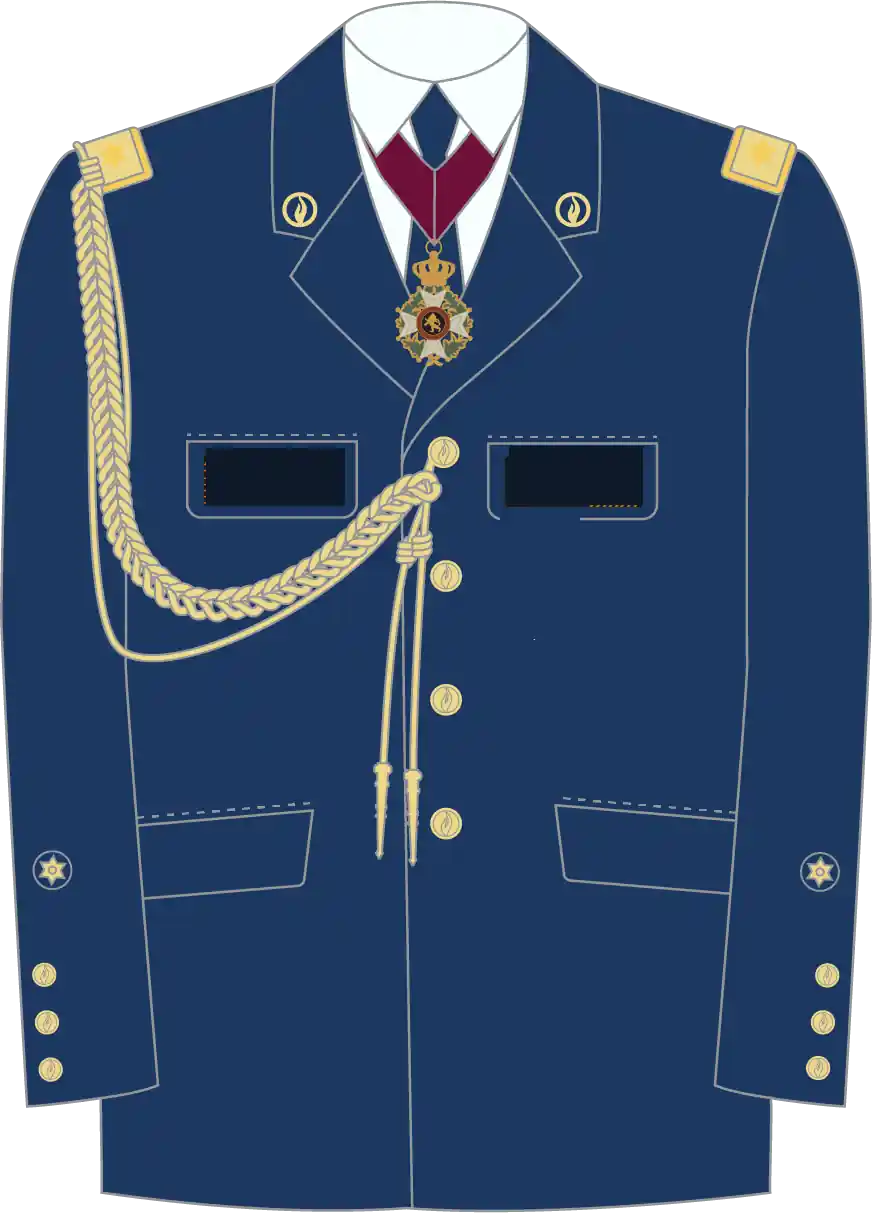
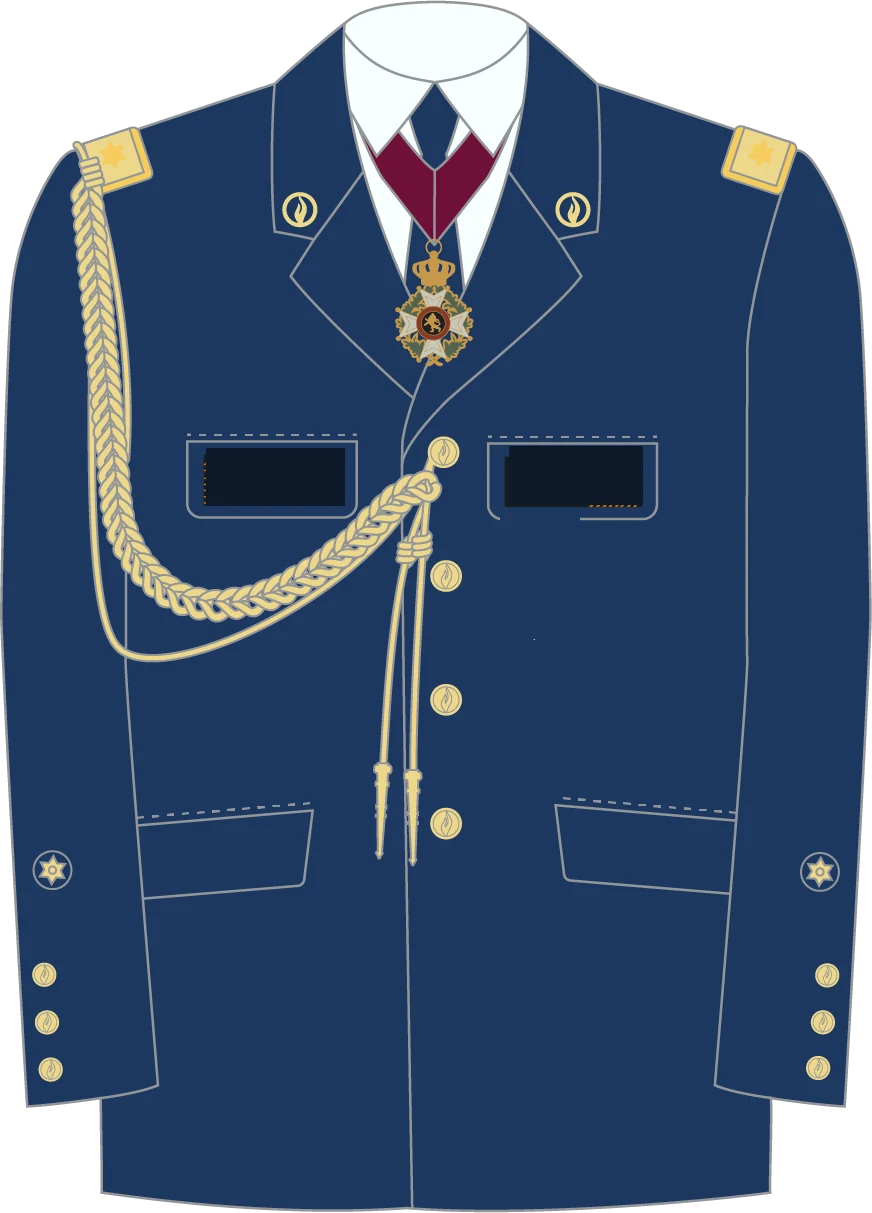
TEST: herstel smallere ceremoniële schouderstukken zonder dubbele resten
Vervang de vier statische WebP-uniformen door kwaliteitsversies uit het oorspronkelijke 872×1213 BelgiumPD-uniform. Officierenkader krijgt een coherente smalle gouden geborduurde band in het originele schouderperspectief zonder gele restanten van de brede schouderplaat; middenkader krijgt een fijne zilveren bies; basis-/agentenkader geen schouderplaat en zilveren metaalaccenten; korpsleiding behoudt de brede originele gouden uitvoering. Herstel de originele marineblauwe stof onder de verwijderde patches, behoud de koord en de overige uniformdetails. Bestaande dynamische naam-/graad-/medailleproef en personeelsrechten onveranderd. Werk browsercache bij en voeg TEST-regressietests voor alle vier bestanden toe. MAIN blijft volledig ongemoeid. Herstelpunt: backup/test-before-clean-shoulder-caps-20261027.

diff --git a/public/uniformen-proef.html b/public/uniformen-proef.html
@@ -20,7 +20,7 @@ main{max-width:1250px;margin:auto;padding:20px 18px 50px}h1{margin:0;font-size:2
 <nav class="bar"><strong>BelgiumPD · Politie-uniformen</strong><span class="label">UITSLUITEND TEST</span><a href="/organogram-test.html">Terug naar TEST-organogram</a></nav>
 <main>
 <h1>Vier vaste uniformuitvoeringen</h1>
-<p>Dezelfde originele ceremonievest, telkens als afzonderlijk afgewerkte afbeelding. Alleen naam en roepnummer, borstgraad en een fictief onderscheidingvoorbeeld zijn hier als dynamische elementen aangebracht.</p>
+<p>Dezelfde originele ceremonievest, telkens als afzonderlijk afgewerkte afbeelding. De smalle schouderstukken zijn opnieuw uitgewerkt als één geheel, zonder restanten van het brede model. Alleen naam, roepnummer, borstgraad en een fictief onderscheidingvoorbeeld zijn dynamisch.</p>
 <div class="notice"><b>Visuele proef · geen personeelswijzigingen.</b> Alle namen, roepnummers en eretekens hieronder dienen enkel om de vier uitvoeringen te vergelijken. Aanpassingen worden nergens opgeslagen. MAIN blijft ongewijzigd.</div>
 <section class="cards" id="uniformCards" aria-label="Uniformvarianten per politiekader"></section>
 <div class="legend"><b>Vaste ontwerpregels:</b> korpsleiding: brede gouden schouderstukken en goud; officierenkader: smallere gouden schouderstukken en goud; middenkader: uiterst smalle zilveren schouderrand en zilveren metalen accenten; basis- en agentenkader: geen schouderstuk en zilveren metalen accenten. Bij roepnummerwijziging schakelen het uniform en de borstgraad automatisch naar het overeenkomstige kader.</div>
@@ -28,10 +28,10 @@ main{max-width:1250px;margin:auto;padding:20px 18px 50px}h1{margin:0;font-size:2
 <script>
 (()=>{'use strict';
 const files={
- 'gold-wide':'/assets/bpd-uniform-korpsleiding-test.webp',
- 'gold-slim':'/assets/bpd-uniform-officierenkader-test.webp',
- 'silver-hair':'/assets/bpd-uniform-middenkader-test.webp',
- 'silver-none':'/assets/bpd-uniform-basiskader-test.webp'
+ 'gold-wide':'/assets/bpd-uniform-korpsleiding-test.webp?v=schouders-v4',
+ 'gold-slim':'/assets/bpd-uniform-officierenkader-test.webp?v=schouders-v4',
+ 'silver-hair':'/assets/bpd-uniform-middenkader-test.webp?v=schouders-v4',
+ 'silver-none':'/assets/bpd-uniform-basiskader-test.webp?v=schouders-v4'
 };
 const presets=[
  {title:'Korpsleiding',description:'Brede gouden schouderstukken · goud',call:'900',name:'Voorbeeld KL'},

diff --git a/tests/uniformen-proef-shoulders.test.js b/tests/uniformen-proef-shoulders.test.js
@@ -1,0 +1,28 @@
+import test from 'node:test';
+import assert from 'node:assert/strict';
+import {readFileSync} from 'node:fs';
+
+const html=readFileSync(new URL('../public/uniformen-proef.html',import.meta.url),'utf8');
+test('Vier afgewerkte uniformvarianten staan uitsluitend in de TEST-proef',()=>{
+ assert.match(html,/UITSLUITEND TEST/);
+ assert.match(html,/geen personeelswijzigingen/i);
+ assert.doesNotMatch(html,/fetch\(|XMLHttpRequest|localStorage\.setItem/);
+ for(const name of ['korpsleiding','officierenkader','middenkader','basiskader']){
+  const url='/assets/bpd-uniform-'+name+'-test.webp?v=schouders-v4';
+  assert.ok(html.includes(url),name);
+  const file=readFileSync(new URL('../public/assets/bpd-uniform-'+name+'-test.webp',import.meta.url));
+  assert.equal(file.toString('ascii',0,4),'RIFF',name);
+  assert.equal(file.toString('ascii',8,12),'WEBP',name);
+  assert.ok(file.length>40000 && file.length<110000,name+' unexpected size');
+ }
+ const source=html.match(/<script>([\s\S]*?)<\/script>/)?.[1];
+ assert.ok(source);
+ assert.doesNotThrow(()=>new Function(source));
+});
+test('Rangen en uniformen volgen een gewijzigde call, zonder gegevens weg te schrijven',()=>{
+ assert.match(html,/const rank=gradeFor\(call\.value\);img\.src=files\[rank\.trim\]/);
+ assert.match(html,/n===900[\s\S]*?gold-wide/);
+ assert.match(html,/n===920\|\|n===930[\s\S]*?gold-slim/);
+ assert.match(html,/n>=600&&n<700[\s\S]*?silver-hair/);
+ assert.match(html,/n>=300&&n<400[\s\S]*?silver-none/);
+});
